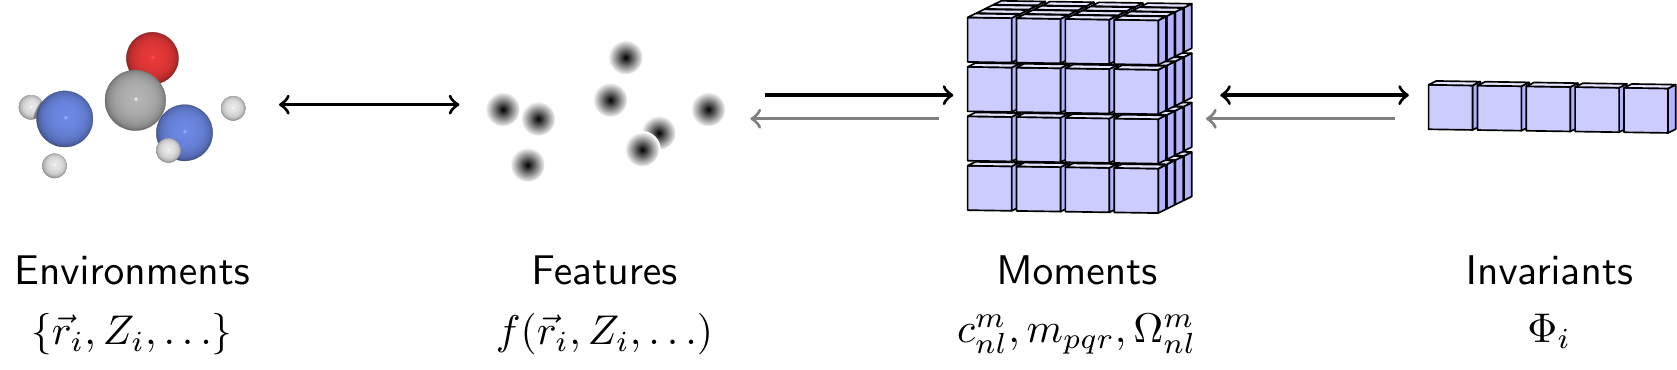
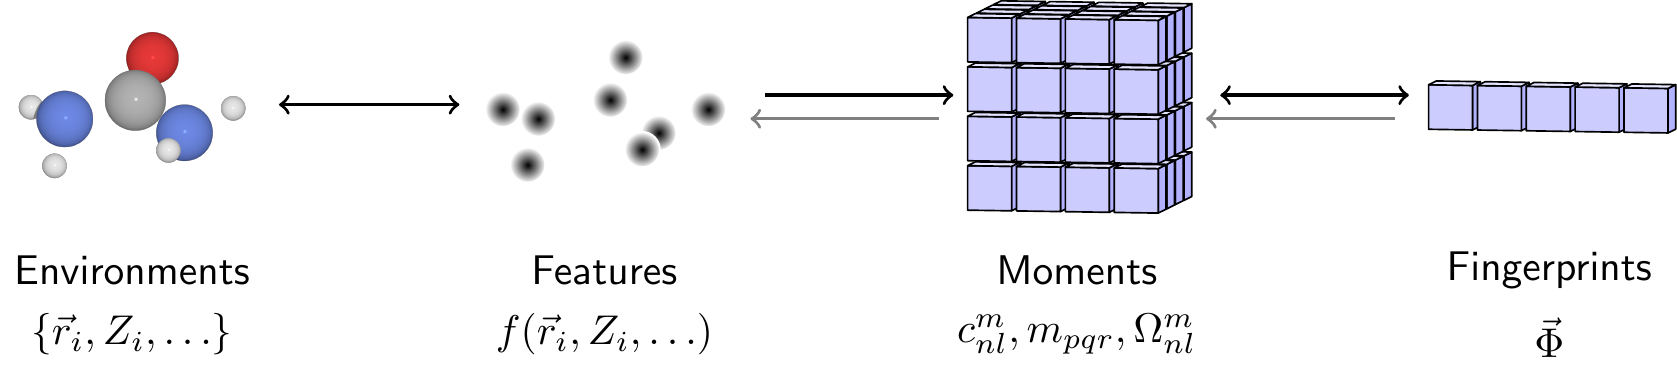
Updated encode/decode image

diff --git a/milad/reconstruct.py b/milad/reconstruct.py
@@ -464,6 +464,7 @@ def get_best_rms(
     max_attempts: int = 1000,
     max_retries=20,
     threshold=1e-7,
+    use_hungarian=True
 ) -> float:
     """
     Get the best RMSs fitting between two molecules.  This will first use an algorithm to make a decent guess at the
@@ -471,28 +472,38 @@ def get_best_rms(
 
     :param reference: the reference to fit to
     :param probe: the probe to try to fit to the reference
+    :param max_attempts: the number of attempts that RDKit should make the find the best RMSD in each retry
+    :param max_retries: the number of ties we should call RDKit's get best RMSD method
+    :param threshold: if the RMSD returned by RDKit's get best RMSD method drops below this value then we stop and
+        return the result
+    :param use_hungarian: if True will use the Hungarian algorithm (https://en.wikipedia.org/wiki/Hungarian_algorithm)
+        to try and find a good label assignment before calling RDKit
     :return: the best RMSD found
     """
     from rdkit.Chem import rdMolAlign
     from . import rdkittools
 
-    # Find a decent re-ordering of the atoms
-    try:
-        reorder_map = rmsdlib.reorder_hungarian(reference.numbers, probe.numbers, reference.positions, probe.positions)
-    except ValueError:
-        pass
-    else:
-        probe = atomic.AtomsCollection(
-            reference.num_atoms,
-            positions=probe.positions[reorder_map],
-            numbers=probe.numbers[reorder_map],
-        )
+    if use_hungarian:
+        # Find a decent re-ordering of the atoms
+        try:
+            reorder_map = rmsdlib.reorder_hungarian(
+                reference.numbers, probe.numbers, reference.positions, probe.positions
+            )
+        except ValueError:
+            pass
+        else:
+            probe = atomic.AtomsCollection(
+                reference.num_atoms,
+                positions=probe.positions[reorder_map],
+                numbers=probe.numbers[reorder_map],
+            )
 
     # Now ask rdkit to find the best.
     # This will try a brute-force permutation search starting with the one we just defined which is likely to be
     # the best
     reference = rdkittools.milad2rdkit(reference)
     probe = rdkittools.milad2rdkit(probe)
+
     try:
         best = np.inf
         for _ in range(max_retries):

diff --git a/docs/source/img/encode_decode.tex b/docs/source/img/encode_decode.tex
@@ -163,8 +163,8 @@ cube array/.style={code={%
  \node[anchor=north] at (features_label.south) {$f(\vec{r}_i, Z_i, \ldots)$};
  \node (moments_label) at (8, 0) {Moments};
  \node[anchor=north] at (moments_label.south) {$c_{nl}^m, m_{pqr}, \Omega_{nl}^m$};
- \node (invariants_label) at (12, 0) {Invariants};
- \node[anchor=north] at (invariants_label.south) {$\Phi_i$};
+ \node (invariants_label) at (12, 0) {Fingerprints};
+ \node[anchor=north] at (invariants_label.south) {$\vec{\Phi}$};
 \end{scope}
 
 
